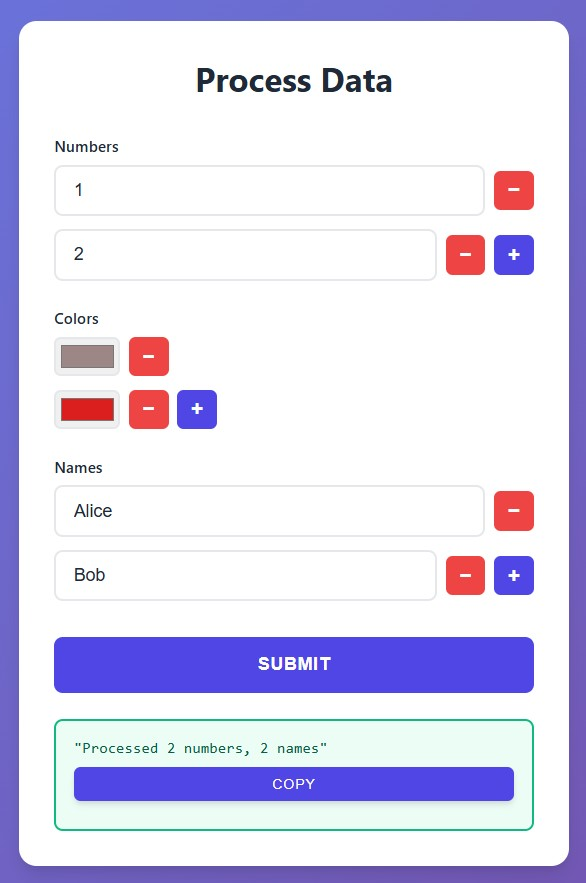
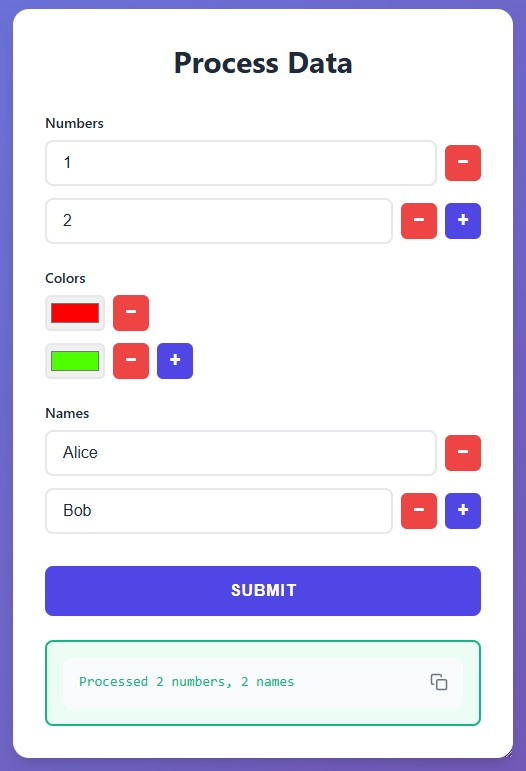
feat: enhance UI/UX for JSON result display with new copy button and styling

diff --git a/func_to_web/templates/static/styles.css b/func_to_web/templates/static/styles.css
@@ -817,37 +817,67 @@ pre {
 
 .result-json-container {
     position: relative;
+    background: var(--bg);
+    border-radius: 8px;
+    overflow: hidden;
 }
 
 .result-json-container pre {
-    padding-bottom: 50px;
+    padding: 0.85rem 3rem 1rem 1rem;
+    margin: 0;
+    white-space: pre-wrap;
+    font-family: 'SF Mono', 'Monaco', 'Consolas', monospace;
+    font-size: 0.875rem;
+    color: var(--success);
+    line-height: 1.5;
 }
 
 .copy-btn {
     position: absolute;
-    bottom: 10px;
-    padding: 8px 16px;
-    background: var(--primary);
-    color: var(--white);
-    border: none;
+    top: 0.5rem;
+    right: 0.5rem;
+    width: 32px;
+    height: 32px;
+    padding: 0;
+    margin: 0;
+    display: flex;
+    align-items: center;
+    justify-content: center;
+    line-height: 0;
+    font-size: 0;
+    background: transparent;
+    color: var(--text-light);
+    border: 1px solid transparent;
     border-radius: 6px;
-    font-size: 13px;
-    font-weight: 500;
     cursor: pointer;
-    transition: all 0.2s;
+    transition: all 0.2s ease;
     z-index: 10;
-    box-shadow: var(--shadow);
+    box-shadow: none;
 }
 
 .copy-btn:hover {
-    background: var(--primary-dark);
-    transform: translateY(-2px);
-    box-shadow: var(--shadow-lg);
+    background: rgba(0, 0, 0, 0.05);
+    color: var(--primary);
+    border-color: var(--border);
+    transform: none;
+    box-shadow: none;
+}
+
+[data-theme="dark"] .copy-btn:hover {
+    background: rgba(255, 255, 255, 0.1);
+    color: var(--primary-light);
+    border-color: var(--border);
+}
+
+.copy-btn svg {
+    display: block;
+    width: 18px;
+    height: 18px;
+    pointer-events: none;
 }
 
 .copy-btn:active {
-    transform: translateY(0);
-    box-shadow: var(--shadow);
+    transform: scale(0.95);
 }
 
 /* ==================== FILE DOWNLOAD ==================== */

diff --git a/func_to_web/templates/static/builders.js b/func_to_web/templates/static/builders.js
@@ -148,13 +148,47 @@ function createJsonResult(data) {
     const container = document.createElement('div');
     container.className = 'result-json-container';
     
+    const displayText = typeof data === 'string' 
+        ? data 
+        : JSON.stringify(data, null, 2);
+
     const pre = document.createElement('pre');
-    pre.textContent = JSON.stringify(data, null, 2);
+    pre.textContent = displayText;
     
     const copyBtn = document.createElement('button');
     copyBtn.className = 'copy-btn';
-    copyBtn.textContent = 'Copy';
-    copyBtn.onclick = () => copyToClipboard(JSON.stringify(data, null, 2));
+    
+    const copyIconSvg = `
+        <svg viewBox="0 0 24 24" width="16" height="16" fill="none" stroke="currentColor" stroke-width="2" stroke-linecap="round" stroke-linejoin="round">
+            <rect x="9" y="9" width="13" height="13" rx="2" ry="2"></rect>
+            <path d="M5 15H4a2 2 0 0 1-2-2V4a2 2 0 0 1 2-2h9a2 2 0 0 1 2 2v1"></path>
+        </svg>
+    `;
+    
+    const checkIconSvg = `
+        <svg viewBox="0 0 24 24" width="16" height="16" fill="none" stroke="#10b981" stroke-width="2" stroke-linecap="round" stroke-linejoin="round">
+            <polyline points="20 6 9 17 4 12"></polyline>
+        </svg>
+    `;
+
+    copyBtn.innerHTML = copyIconSvg;
+    copyBtn.setAttribute('aria-label', 'Copy to clipboard');
+    copyBtn.title = "Copy to clipboard";
+    
+    let resetTimer = null;
+
+    copyBtn.onclick = () => {
+        copyToClipboard(displayText);
+        
+        copyBtn.innerHTML = checkIconSvg;
+        
+        if (resetTimer) clearTimeout(resetTimer);
+        
+        resetTimer = setTimeout(() => {
+            copyBtn.innerHTML = copyIconSvg;
+            resetTimer = null;
+        }, 2000);
+    };
     
     container.appendChild(copyBtn);
     container.appendChild(pre);

diff --git a/CHANGELOG.md b/CHANGELOG.md
@@ -19,6 +19,12 @@
   - Disabled on tablets and mobile devices
   - Maintains responsive behavior with proper padding
 
+- **Result Display**: Enhanced UI/UX for output presentation
+  - Replaced text-based "Copy" button with a subtle, floating SVG icon in the top-right
+  - Optimized vertical alignment to perfectly center text relative to the button
+  - Removed enclosing quotes from string results (both in display and clipboard)
+  - Improved button state logic to handle rapid clicks and timeouts robustly
+
 ## [0.8.1] - 2025-11-24
 
 ### Added
